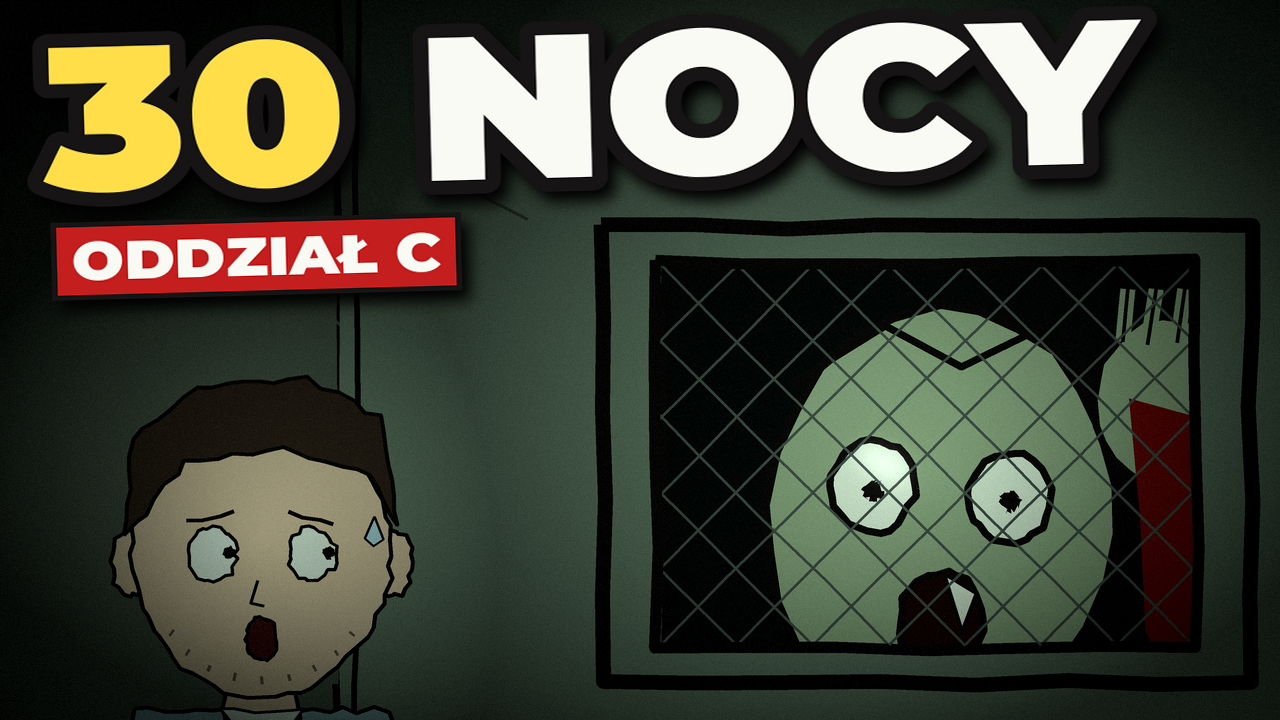
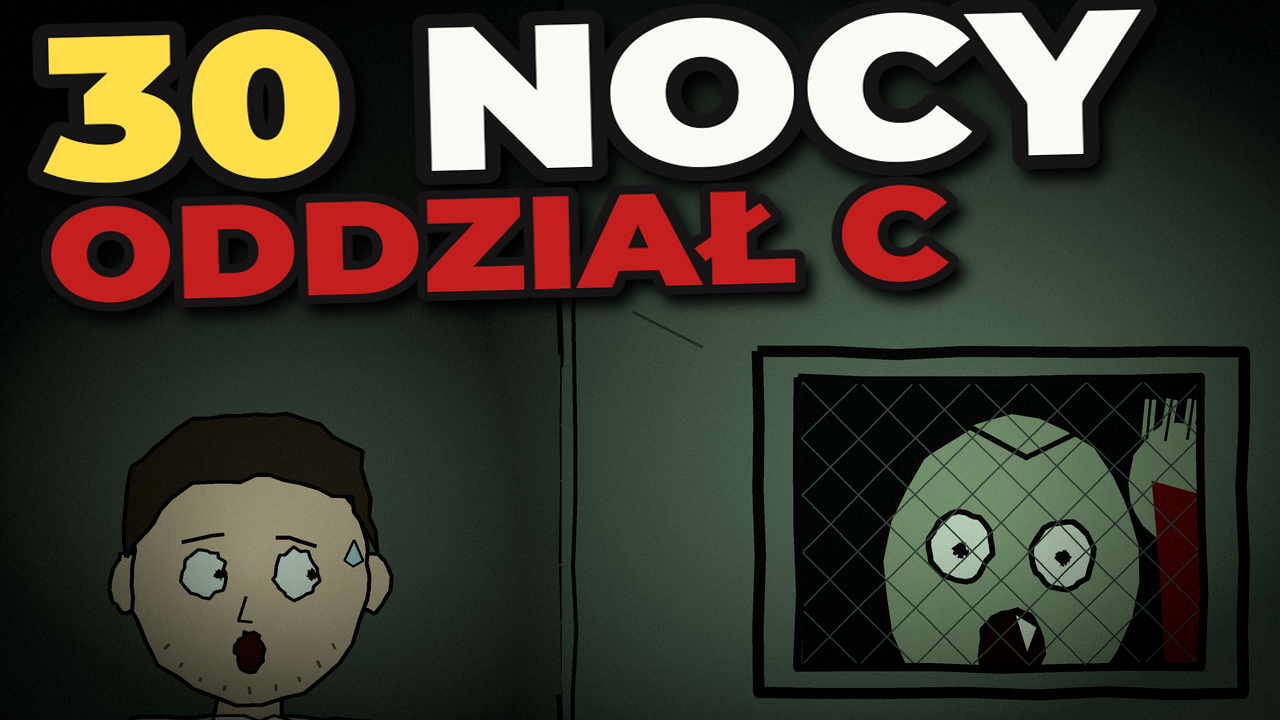
Miniatura 1 (izolatka): duży napis „ODDZIAŁ C” pod „30 NOCY”
Czerwona tabliczka zastąpiona drugim dużym wierszem (czerwony, ten sam krój);
okienko z panem Henrykiem w prawym dolnym rogu, ściana i drzwi przedłużone nad plan ujęcia.
Wersje 2 i 3 bez zmian.

Claude-Session: https://claude.ai/code/session_011dRQgJiCfXuhrYiQLQ8rdu

diff --git a/output/zombie-psychiatryk/miniatura.py b/output/zombie-psychiatryk/miniatura.py
@@ -94,11 +94,12 @@ def font(size):
 
 
 def titles(img, big1, big2, side="l", tag="ODDZIAŁ C", width=500, sizes=(190, 138), tag_size=46, stretch=1.0,
-           inline=False, top=34, angle=3.0):
+           inline=False, top=34, angle=3.0, sub=None):
     """Napisy: czerwona tabliczka z tytułem i duże słowa z grubym konturem, lekko przekrzywione.
     side — róg kadru: „l” lewy górny, „r” prawy górny; width — najszersze miejsce na napis (przed rozciągnięciem);
     sizes — wysokość pisma wierszy; stretch — poszerzenie liter w poziomie;
-    inline — oba słowa w jednym wierszu (tabliczka wtedy pod nim, nie nad); top — górna krawędź; angle — przekrzywienie."""
+    inline — oba słowa w jednym wierszu (tabliczka wtedy pod nim, nie nad); top — górna krawędź; angle — przekrzywienie;
+    sub — (tekst, wysokość pisma, kolor): dodatkowy duży wiersz pod spodem."""
     layer = Image.new("RGBA", (W, H), (0, 0, 0, 0))
     d = ImageDraw.Draw(layer)
     left = side == "l"
@@ -115,6 +116,8 @@ def titles(img, big1, big2, side="l", tag="ODDZIAŁ C", width=500, sizes=(190, 1
     if tag and not inline:
         y = plate(y)
     rows = [((big1, YELLOW), (big2, WHITE))] if inline else [((big1, YELLOW),), ((big2, WHITE),)]
+    if sub:
+        rows, sizes = rows + [((sub[0], sub[2]),)], tuple(sizes[:len(rows)]) + (sub[1],)
     for row, size in zip(rows, sizes):
         row = [(word, col) for word, col in row if word]
         if not row:
@@ -167,8 +170,15 @@ def izolatka():
     k = 2.2  # sekundy po uderzeniu: głowa przekrzywiona, krew spłynęła, szyba bez pary
     t = R.SLAM_T - R.SCENES[2][0] + k
     # okienko po prawej pod napisem, lewa strona na sanitariusza; tabliczka „IZOLATKA 3” poza kadrem
-    p = R.Pen(img, t, **R.framed(dict(zoom=1.9, cx=489, cy=190), (0, 0)))
+    # okienko w prawym dolnym rogu, nad nim dwa wiersze napisu; kamera wychodzi nad plan ujęcia (ponad y=0),
+    # więc ścianę i drzwi przedłużamy w górę i w lewo, zanim scene3 narysuje swoje (WYTYCZNE 1.3: bez końca świata)
+    p = R.Pen(img, t, zoom=1.42, cx=386, cy=125)
+    p.rect(-400, -500, W + 400, H + 400, (88, 96, 86), w=0, amp=0)
+    p.rect(330, -500, 950, 0, DOOR, w=0, amp=0)
+    p.line([(330, -500), (330, 0)], w=4, amp=0)
+    p.line([(340, -500), (340, 0)], w=3)
     R.scene3(p, t, 5.6)
+    p.rect(333, -500, 948, -14, DOOR, w=0, amp=0)  # górna krawędź drzwi z scene3 (y=-20) jest teraz w kadrze: zasłonięta
     # kieł pana Henryka: jeden, u góry ust po prawej stronie kadru (prośba reżysera, 10.11.2026)
     lean = R.ease((k - 0.8) / 2.2)
     mx, my = 640 + 12 * lean + 2 * R.noise(k, 8, 0.7), 268 + 8 * lean + 54  # środek ust z render.scene3
@@ -179,9 +189,10 @@ def izolatka():
     p.rect(812, 130, 950, 350, DOOR, w=0, amp=0)
     p.line([(340, 0), (340, 720)], w=3)
     p.rect(470, 120, 810, 360, None, w=8)
-    R.nurse_face(Shaky(img, 0.3), 262, 548, 1.08, 1.0, 0.3, gaze=(1.0, -0.15))
-    img = light(small(img), R.GRADE[2], [(930, 470, 600, 1.0), (262, 540, 340, 0.9)])
-    return titles(img, "30", "NOCY", width=1000, sizes=(204,), tag_size=54, stretch=1.14, inline=True, top=44, angle=1.5)
+    R.nurse_face(Shaky(img, 0.3), 250, 568, 1.0, 1.0, 0.3, gaze=(1.0, 0.05))
+    img = light(small(img), R.GRADE[2], [(1000, 540, 560, 1.0), (250, 560, 330, 0.9)])
+    return titles(img, "30", "NOCY", tag=None, width=1000, sizes=(204,), stretch=1.14, inline=True, top=34, angle=1.5,
+                  sub=("ODDZIAŁ C", 132, RED))
 
 
 def korytarz():
